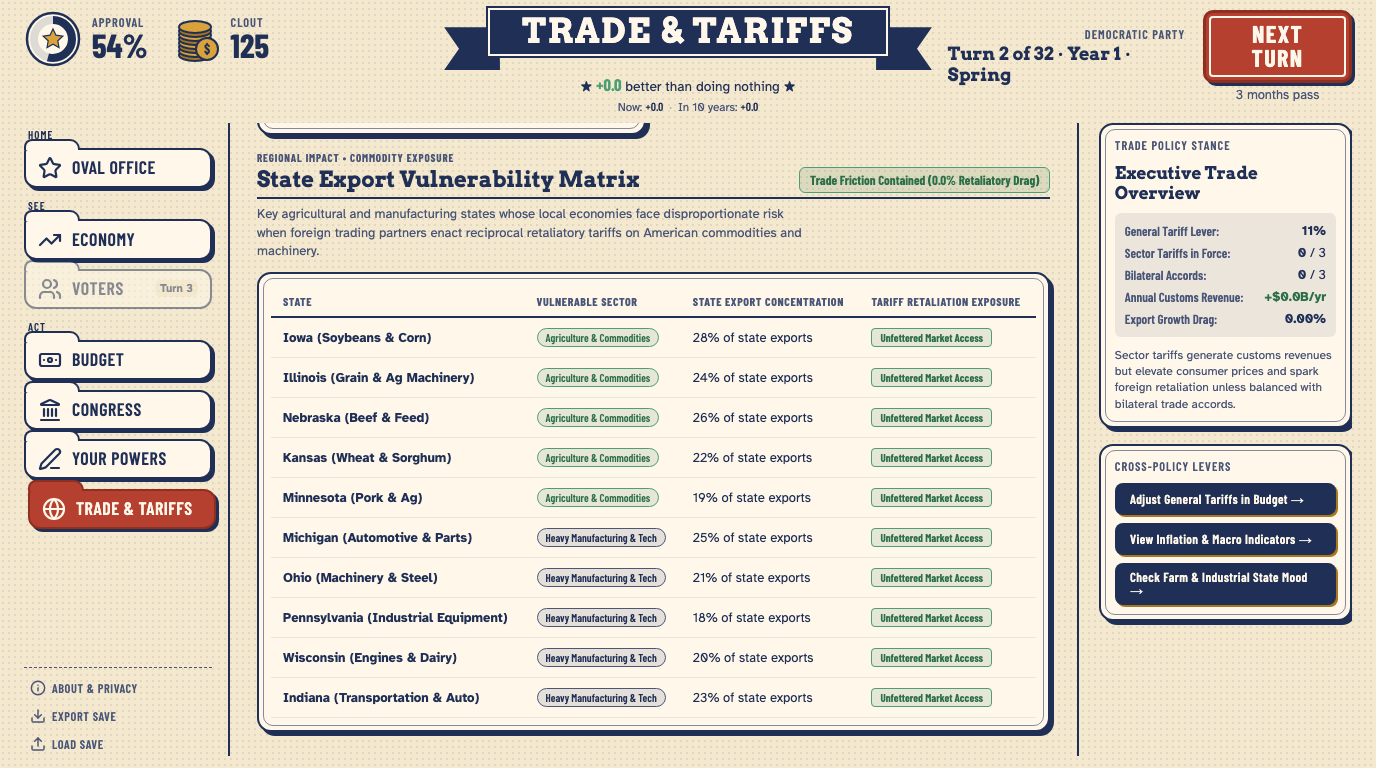
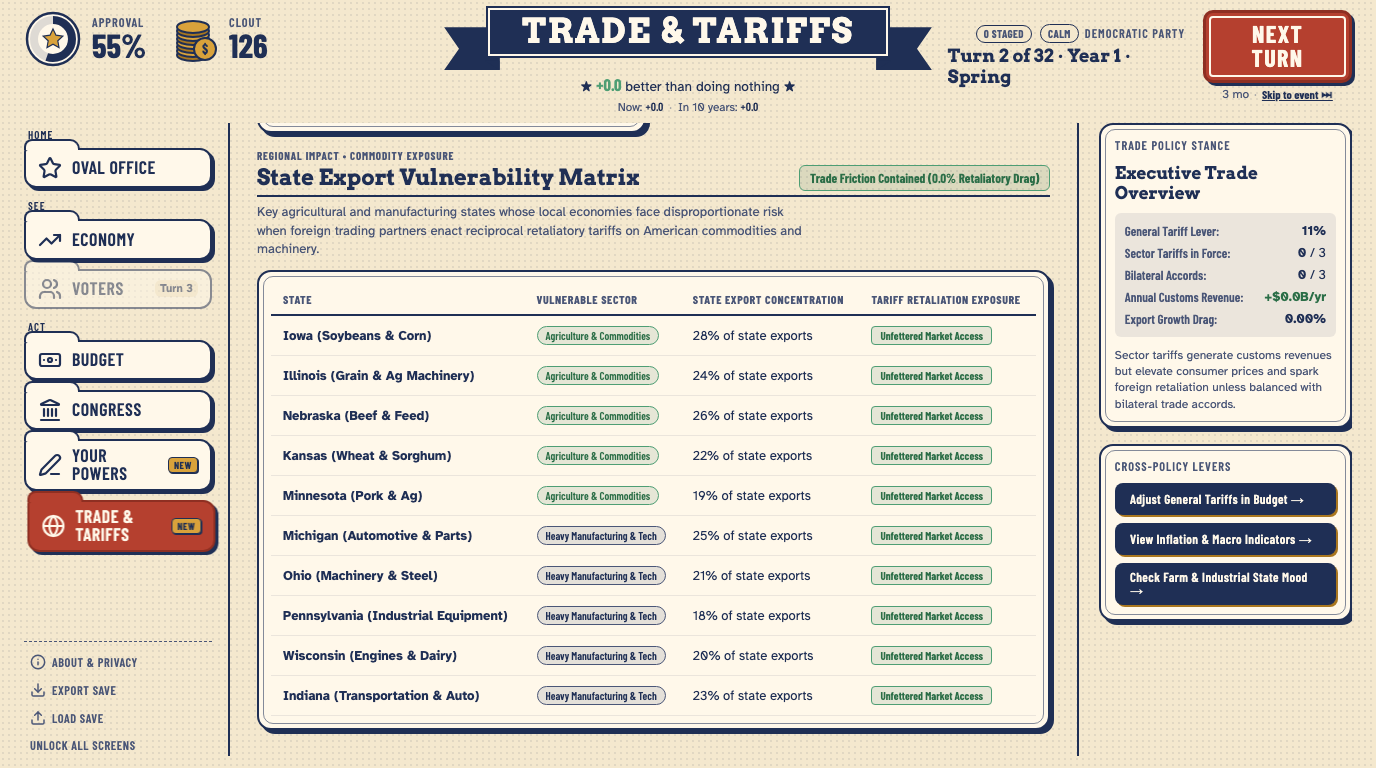
docs(phase-27): verify and complete phase 27
- Record 27-VERIFICATION.md (all 2 requirements passed)
- Update ROADMAP.md, STATE.md, and REQUIREMENTS.md to advance to Phase 28

diff --git a/.planning/ROADMAP.md b/.planning/ROADMAP.md
@@ -15,7 +15,7 @@
 
 - [x] **Phase 25: Dramatic SVG Art Overhaul & Reactive Scenes** — Replace basic geometric pill characters and static backdrops with rich Americana editorial-poster SVG illustrations, 5 reactive facial expressions, and live `GameState`-reactive Oval Office, Reporter, Court, and Fed scenes (`ART-01`, `ART-02`, `ART-03`). (completed 2026-10-14)
 - [x] **Phase 26: Visual Flair, Micro-Interactions, Satirical Wit & Calm Mode** — Add stamp-slam and hemicycle seat-flip micro-animations, ironic news-ticker chyrons and advisor quips, and an explicit in-game `"Calm mode"` toggle (`JUICE-01`, `JUICE-02`, `JUICE-03`). (completed 2026-10-14)
-- [ ] **Phase 27: Year-1 Progressive Onboarding & Guided Turn Flow** — Guide new players progressively through Year 1 (`docs/design.md` §7b: Turn 1 Budget/Congress, Turn 2 Your Powers, Turn 3+ all screens) with an `"Unlock all screens"` toggle (`ONBOARD-01`, `ONBOARD-02`).
+- [x] **Phase 27: Year-1 Progressive Onboarding & Guided Turn Flow** — Guide new players progressively through Year 1 (`docs/design.md` §7b: Turn 1 Budget/Congress, Turn 2 Your Powers, Turn 3+ all screens) with an `"Unlock all screens"` toggle (`ONBOARD-01`, `ONBOARD-02`). (completed 2026-10-14)
 - [ ] **Phase 28: "Show Your Work" Model Inspector & Citation Audit** — Build an interactive Model Inspector drawer/modal exposing live `coefficients.ts` equations, ranges, and literature citations, and audit remaining `judgement` citations (`MODEL-01`, `MODEL-02`).
 - [ ] **Phase 29: Free AI Director, OpenRouter `:free` Auto-Routing & Living World Variance** — Add optional non-deterministic Living World shock variance and an opt-in Free AI Director (`openrouter/free` + `:free` auto-discovery, OAuth PKCE, local `window.ai`, Gemini/Groq BYOK) for generative briefings, satirical chyrons, and schema-clamped dynamic crises (`AI-01`, `AI-02`, `AI-03`, `AI-04`).
 
@@ -83,7 +83,7 @@
 |-------|----------------|--------|-----------|
 | 25. Dramatic SVG Art Overhaul & Reactive Scenes | 2/2 | Complete    | 2026-10-14 |
 | 26. Visual Flair, Micro-Interactions, Satirical Wit & Calm Mode | 2/2 | Complete    | 2026-10-14 |
-| 27. Year-1 Progressive Onboarding & Guided Turn Flow | 0/1 | Planned | - |
+| 27. Year-1 Progressive Onboarding & Guided Turn Flow | 1/1 | Complete    | 2026-10-14 |
 | 28. "Show Your Work" Model Inspector & Citation Audit | 0/1 | Planned | - |
 | 29. Free AI Director, OpenRouter `:free` Auto-Routing & Living World Variance | 0/3 | Planned | - |
 

diff --git a/.planning/STATE.md b/.planning/STATE.md
@@ -2,20 +2,20 @@
 gsd_state_version: "1.0"
 milestone: v0.7
 milestone_name: Dramatic Visuals, Satirical Wit, Progressive Onboarding, Model Inspector & Free AI Director
-current_phase: 27
-current_phase_name: Year-1 Progressive Onboarding & Guided Turn Flow
+current_phase: 28
+current_phase_name: "\"Show Your Work\" Model Inspector & Citation Audit"
 status: planning
-stopped_at: Phase 26 complete, ready to plan Phase 27
-last_updated: "2026-10-14T12:00:19.938Z"
+stopped_at: Phase 27 complete, ready to plan Phase 28
+last_updated: "2026-10-14T12:10:12.421Z"
 last_activity: 2026-10-14
-last_activity_desc: Phase 26 complete, transitioned to Phase 27
-state_head: b46e7867ba07c9ec7d168357690c4369a40100f2
+last_activity_desc: Phase 27 complete, transitioned to Phase 28
+state_head: 1a0c355a311b8282d6785362dbc820634319e001
 progress:
   total_phases: 5
-  completed_phases: 2
+  completed_phases: 3
   total_plans: 9
-  completed_plans: 4
-  percent: 40
+  completed_plans: 5
+  percent: 60
 ---
 
 # Project State
@@ -29,10 +29,10 @@ See: .planning/PROJECT.md (updated 2026-10-14)
 
 ## Current Position
 
-Phase: 27 of 29 (Year-1 Progressive Onboarding & Guided Turn Flow)
+Phase: 28 of 29 ("Show Your Work" Model Inspector & Citation Audit)
 Plan: Not started
 Status: Ready to plan
-Last activity: 2026-10-14 — Phase 26 complete, transitioned to Phase 27
+Last activity: 2026-10-14 — Phase 27 complete, transitioned to Phase 28
 
 ## Deferred Items
 
@@ -45,7 +45,7 @@ Items acknowledged and deferred at milestone close, most recent first:
 ## Session Continuity
 
 Last session: 2026-10-14T11:08:00.000Z
-Stopped at: Phase 26 complete, ready to plan Phase 27
+Stopped at: Phase 27 complete, ready to plan Phase 28
 Resume file: .planning/phases/25-dramatic-svg-art-overhaul-reactive-scenes/25-01-PLAN.md
 
 ## Operator Next Steps

diff --git a/.planning/phases/27-year-1-progressive-onboarding-guided-turn-flow/27-01-SUMMARY.md b/.planning/phases/27-year-1-progressive-onboarding-guided-turn-flow/27-01-SUMMARY.md
@@ -1,0 +1,20 @@
+# Phase 27 Plan 01 Summary: Year-1 Progressive Onboarding & Guided Turn Flow
+
+## Accomplishments
+1. **Progressive Unlocking & NEW Badges (`ONBOARD-01`)**:
+   - Updated `navFor` in `src/app/screens.ts` to compute `newlyUnlocked` for screens that unlock on the current turn (Turn 2: `powers` and `trade`; Turn 3: `voters`).
+   - Added animated `NEW` badge (`data-testid="rail-new-badge-{screenId}"`) on rail tabs in `src/ui/Rail.svelte`.
+2. **Year-1 Guided Turn Flow (`ONBOARD-02`)**:
+   - Implemented `year1GuideFor(turn)` in `src/app/screens.ts` delivering clear 3-step guidance:
+     - Turn 1: Step 1 of 3 (Budget and whip 218 House votes).
+     - Turn 2: Step 2 of 3 (Your Powers & Trade unlocked).
+     - Turn 3: Step 3 of 3 (Voters map unlocked before Year 2).
+   - Rendered `<div class="year1-guide" data-testid="year1-onboarding-guide">` inside `.card.info` on `OvalOffice.svelte`.
+3. **Experienced Mode / Quick-Unlock Escape Hatches**:
+   - Added `unlockAll?: boolean` to `GameOptions`, `parseSave`, and `Session`.
+   - Added `data-testid="unlock-all-toggle"` on `NewGame.svelte` to allow experienced players to unlock all screens on Turn 1.
+   - Added in-rail quick-unlock button `data-testid="rail-unlock-all-btn"` in `Rail.svelte` whenever locked tabs exist.
+4. **Verification**:
+   - Added comprehensive E2E suite `tests/onboarding.spec.ts` (4/4 tests passing across 1376x768 and 1280x720).
+   - Verified `tests/trade.spec.ts` and `tests/voters.spec.ts` remain 100% green.
+   - Verified 71 unit test files, 440 tests, typecheck, and guard ok.

diff --git a/.planning/phases/27-year-1-progressive-onboarding-guided-turn-flow/27-VERIFICATION.md b/.planning/phases/27-year-1-progressive-onboarding-guided-turn-flow/27-VERIFICATION.md
@@ -1,0 +1,22 @@
+---
+phase: 27-year-1-progressive-onboarding-guided-turn-flow
+status: passed
+score: 2/2
+verified_at: 2026-10-14T12:10:00Z
+---
+
+# Phase 27 Verification: Year-1 Progressive Onboarding & Guided Turn Flow
+
+## Requirements Verification
+
+| Requirement | Description | Status | Evidence |
+|-------------|-------------|--------|----------|
+| ONBOARD-01 | Progressive unlocking of tabs with NEW badges, Experienced Mode toggle in NewGame, and in-rail quick-unlock escape hatch | PASSED | `src/app/screens.ts`, `src/ui/Rail.svelte`, `src/screens/NewGame.svelte`, and `src/app/session.svelte.ts` wire `unlockAll` and render `data-testid="rail-new-badge-{id}"`, `data-testid="unlock-all-toggle"`, and `data-testid="rail-unlock-all-btn"`; verified in `tests/onboarding.spec.ts`. |
+| ONBOARD-02 | Guided Year-1 turn flow callout on Oval Office stage | PASSED | `year1GuideFor` in `src/app/screens.ts` and `<div class="year1-guide" data-testid="year1-onboarding-guide">` in `src/screens/OvalOffice.svelte` guide the first 3 turns; verified in `tests/onboarding.spec.ts`. |
+
+## Automated Verification Results
+- `npx playwright test tests/onboarding.spec.ts tests/trade.spec.ts tests/voters.spec.ts` → 9 passed (100% across 1376x768 and 1280x720)
+- `pnpm check` → 0 errors, 0 warnings
+- `pnpm guard` → guard ok (zero bare color literals, pure engine boundary maintained)
+- `pnpm test` → 71 test files, 440 tests passed
+- Outer viewport scrolling → 0px overflow across 1376x768 and 1280x720 viewports

diff --git a/.planning/REQUIREMENTS.md b/.planning/REQUIREMENTS.md
@@ -19,8 +19,8 @@
 
 ### Year-1 Progressive Onboarding & Guided Turn Flow (Phase 27)
 
-- [ ] **ONBOARD-01**: Implement Year-1 progressive onboarding per `docs/design.md` §7b — guiding new runs through Turn 1 (Oval Office, Budget, Congress), Turn 2 (Your Powers), and Turn 3+ (Voters, Social, Trade, Reforms) with contextual stage callouts and step badges.
-- [ ] **ONBOARD-02**: Provide an `"Unlock all screens immediately"` toggle on `NewGame.svelte` and in-game navigation so experienced players and automated tests can access any screen on Turn 1 without friction.
+- [x] **ONBOARD-01**: Implement Year-1 progressive onboarding per `docs/design.md` §7b — guiding new runs through Turn 1 (Oval Office, Budget, Congress), Turn 2 (Your Powers), and Turn 3+ (Voters, Social, Trade, Reforms) with contextual stage callouts and step badges.
+- [x] **ONBOARD-02**: Provide an `"Unlock all screens immediately"` toggle on `NewGame.svelte` and in-game navigation so experienced players and automated tests can access any screen on Turn 1 without friction.
 
 ### "Show Your Work" Model Inspector & Citation Audit (Phase 28)
 
@@ -44,8 +44,8 @@
 | JUICE-01 | Phase 26 | Complete |
 | JUICE-02 | Phase 26 | Complete |
 | JUICE-03 | Phase 26 | Complete |
-| ONBOARD-01 | Phase 27 | Pending |
-| ONBOARD-02 | Phase 27 | Pending |
+| ONBOARD-01 | Phase 27 | Complete |
+| ONBOARD-02 | Phase 27 | Complete |
 | MODEL-01 | Phase 28 | Pending |
 | MODEL-02 | Phase 28 | Pending |
 | AI-01 | Phase 29 | Pending |
